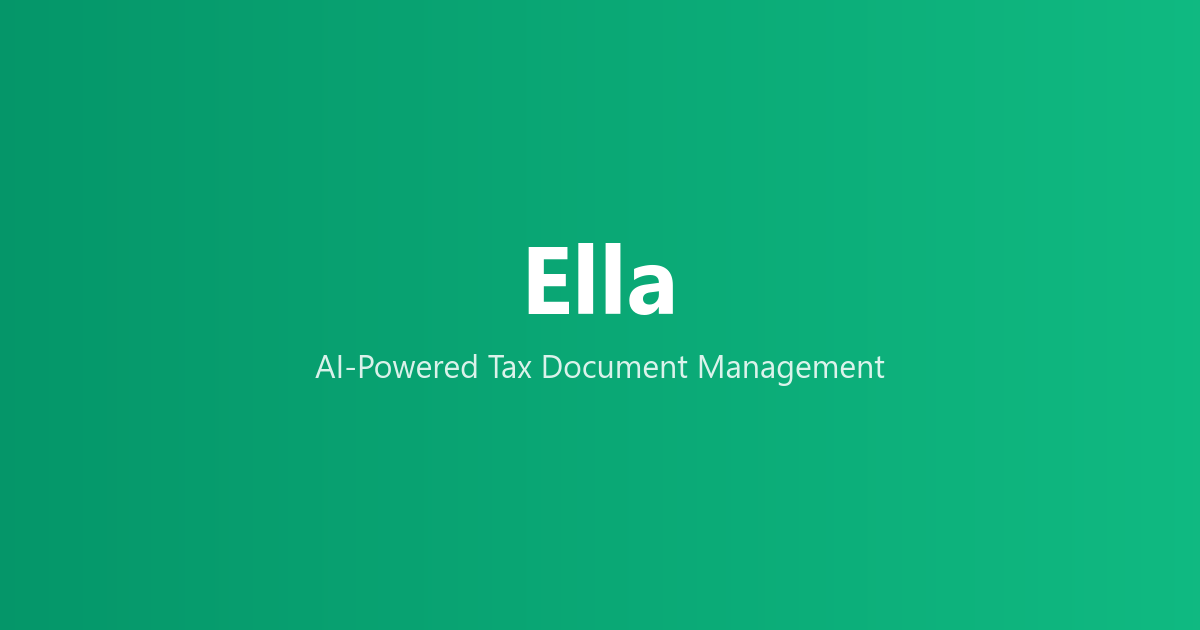
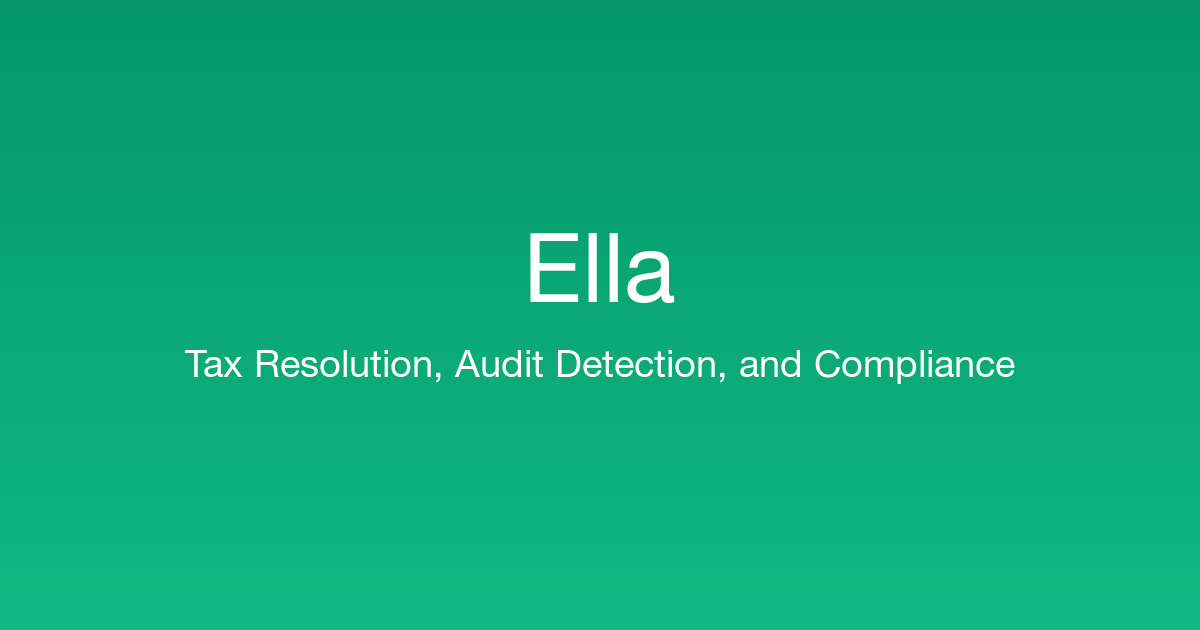
fix(landing): remove AI messaging

diff --git a/apps/landing/src/config/home-page-content.ts b/apps/landing/src/config/home-page-content.ts
@@ -71,9 +71,9 @@ export const homeHowItWorksSteps = [
   },
   {
     step: "2",
-    title: "AI Classifies & Renames",
+    title: "Organized for Advisor Review",
     description:
-      "Ella classifies the document, extracts data, and renames it: '2024_W2_Employer_ClientName.pdf'.",
+      "Ella organizes the upload, confirms key details, and labels the record clearly for advisor review.",
   },
   {
     step: "3",

diff --git a/apps/landing/src/config/software-content.ts b/apps/landing/src/config/software-content.ts
@@ -67,8 +67,8 @@ export const beforeEllaItems = [
 
 export const afterEllaItems = [
   "One secure upload link per client",
-  "Tax records are classified quickly",
-  "OCR extracts key tax data for review",
+  "Tax records are organized for review",
+  "Key tax details are prepared for advisor review",
   "Notice deadlines and task queues are visible",
   "Files are organized by year, type, client, and tax issue",
 ] as const;